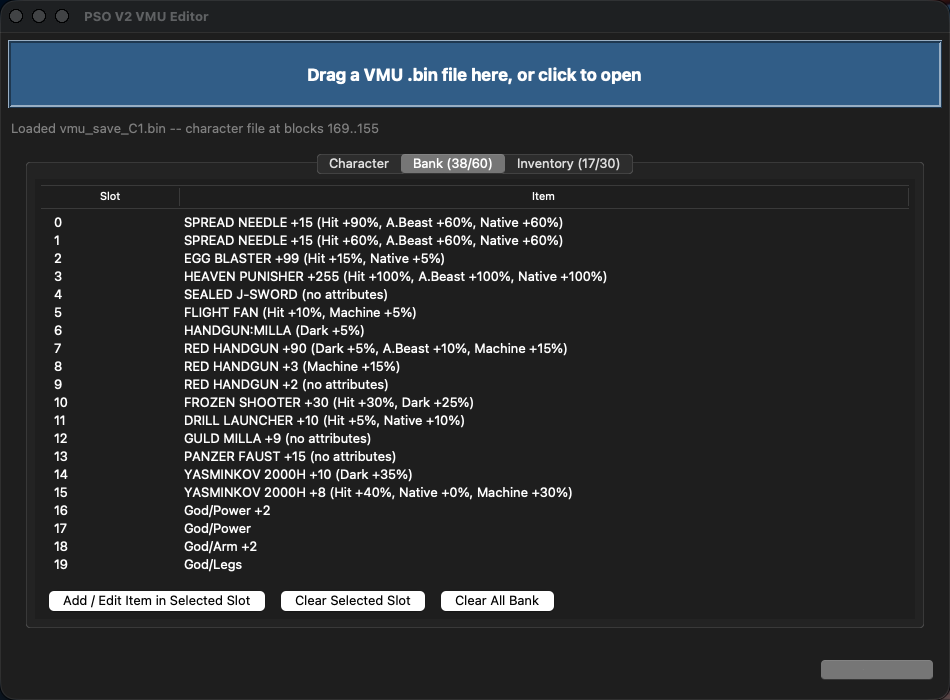
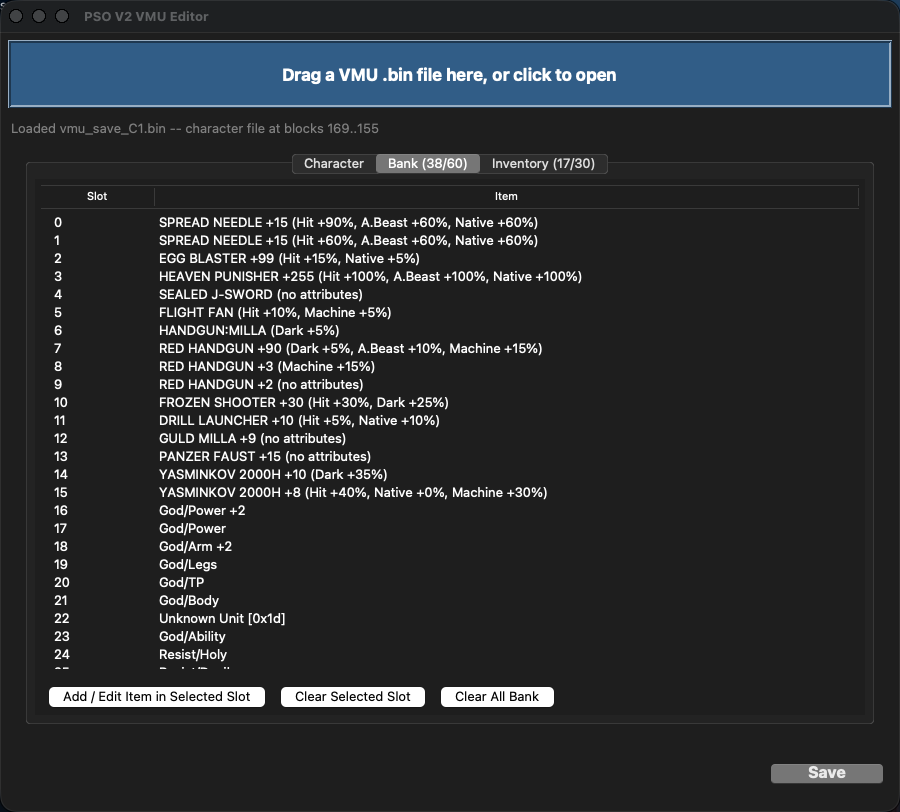
Fix Save button rendering as a blank gray sliver
Pack the Save bar bottom-first so it always gets its natural size instead of
being squeezed by the expanding notebook; bump the default window size and
shrink the item Treeview slightly so everything fits without clipping.

diff --git a/main.py b/main.py
@@ -629,7 +629,8 @@ class App:
     def __init__(self, root):
         self.root = root
         self.root.title("PSO V2 VMU Editor")
-        self.root.geometry("900x650")
+        self.root.geometry("900x780")
+        self.root.minsize(850, 700)
 
         self.file_path = None
         self.image_bytes = None
@@ -728,6 +729,22 @@ class App:
         for w in self.main_frame.winfo_children():
             w.destroy()
 
+        # Pack the Save bar at the bottom FIRST so it always gets its natural
+        # size reserved. Packing it after a fill="both"/expand=True notebook
+        # let the notebook claim all the space whenever the window wasn't
+        # tall enough for everything, squeezing this bar down to a sliver
+        # with no visible label -- packing bottom-up avoids that entirely.
+        save_frame = tk.Frame(self.main_frame)
+        save_frame.pack(side="bottom", fill="x", pady=8)
+        # A plain ttk.Button (rather than tk.Button with a forced bg/fg) renders
+        # with the native macOS Aqua look in both light and dark mode -- forcing
+        # colors on a tk.Button produces a flat, oddly-bordered mismatch with the
+        # rest of the native UI.
+        style = ttk.Style()
+        style.configure("Save.TButton", font=("", 12, "bold"), padding=(18, 8))
+        ttk.Button(save_frame, text="Save", command=self._save, style="Save.TButton").pack(
+            side="right", padx=8)
+
         notebook = ttk.Notebook(self.main_frame)
         notebook.pack(fill="both", expand=True)
 
@@ -742,17 +759,6 @@ class App:
         inv_tab = tk.Frame(notebook)
         notebook.add(inv_tab, text=f"Inventory ({ch.get_inventory_count(self.dec)}/{ch.INVENTORY_CAPACITY})")
         self._build_item_tab(inv_tab, is_bank=False)
-
-        save_frame = tk.Frame(self.main_frame)
-        save_frame.pack(fill="x", pady=8)
-        # A plain ttk.Button (rather than tk.Button with a forced bg/fg) renders
-        # with the native macOS Aqua look in both light and dark mode -- forcing
-        # colors on a tk.Button produces a flat, oddly-bordered mismatch with the
-        # rest of the native UI.
-        style = ttk.Style()
-        style.configure("Save.TButton", font=("", 12, "bold"), padding=(18, 8))
-        ttk.Button(save_frame, text="Save", command=self._save, style="Save.TButton").pack(
-            side="right", padx=8)
 
     def _build_character_tab(self, tab):
         dec = self.dec
@@ -821,7 +827,7 @@ class App:
 
     def _build_item_tab(self, tab, is_bank):
         capacity = ch.BANK_CAPACITY if is_bank else ch.INVENTORY_CAPACITY
-        tree = ttk.Treeview(tab, columns=("desc",), show="tree headings", height=20)
+        tree = ttk.Treeview(tab, columns=("desc",), show="tree headings", height=16)
         tree.heading("#0", text="Slot")
         tree.heading("desc", text="Item")
         tree.column("#0", width=60)

diff --git a/CHANGELOG.md b/CHANGELOG.md
@@ -5,6 +5,15 @@ Format loosely follows [Keep a Changelog](https://keepachangelog.com/).
 
 ## [Unreleased]
 
+### Fixed
+- The Save button (and the item-tab action buttons above it) could render as
+  a blank, unlabeled gray sliver -- the Save bar was packed *after* a
+  `fill="both", expand=True` notebook, which greedily claimed space and
+  squeezed the bar down whenever the window wasn't tall enough. Fixed by
+  reserving the Save bar's space first (`side="bottom"`) before the notebook
+  fills the remainder, and by increasing the default window size so
+  everything fits without cramping.
+
 ## [0.1.0] - 2026-07-12
 
 Initial release.